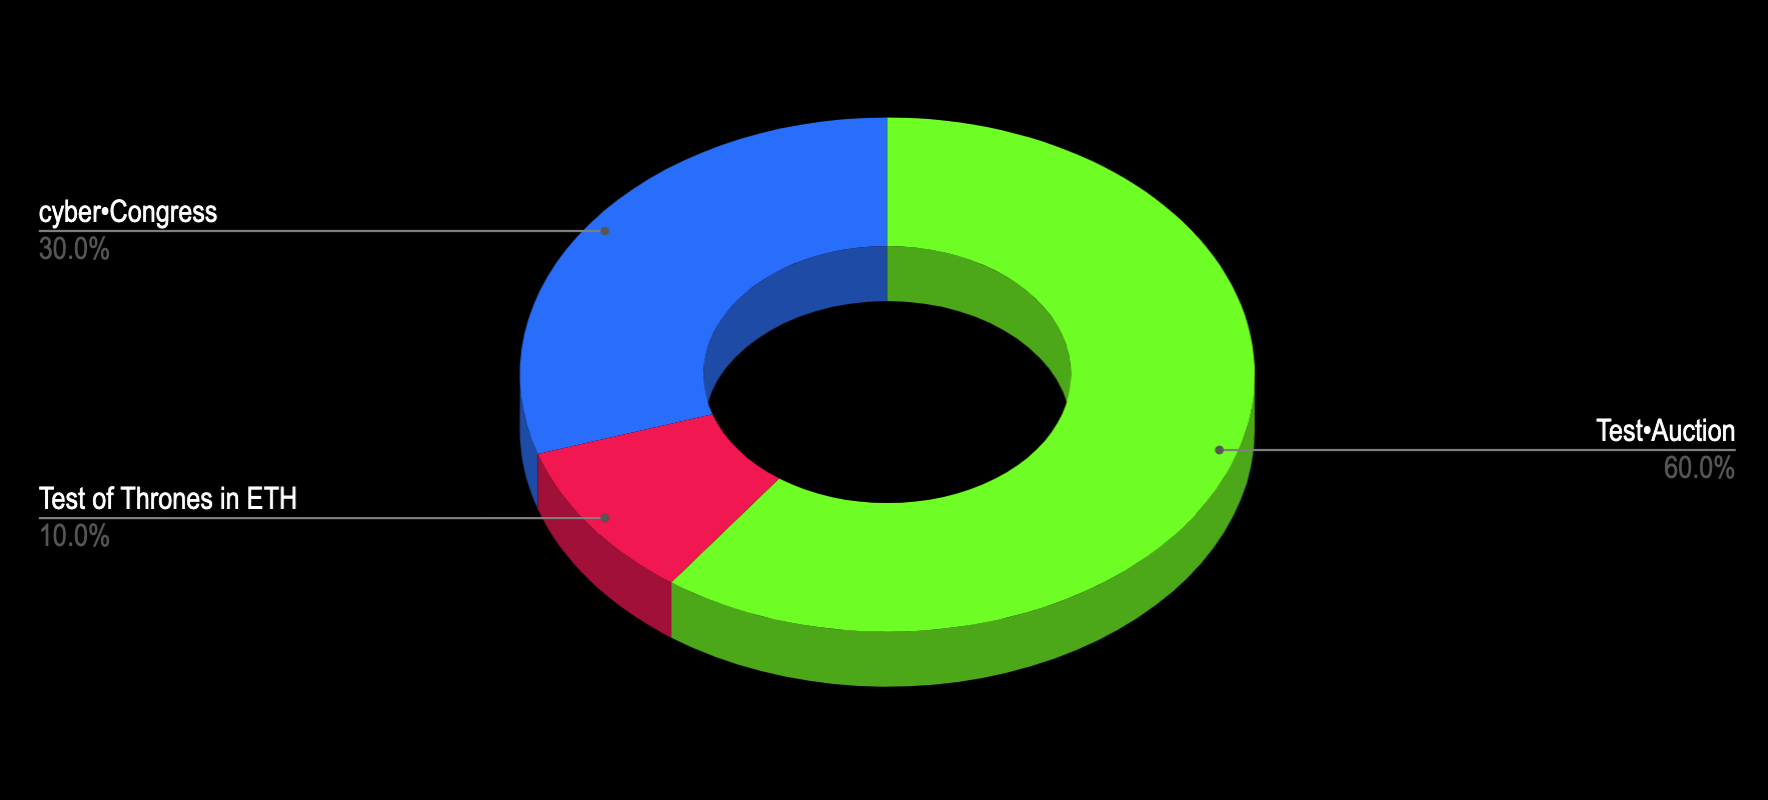
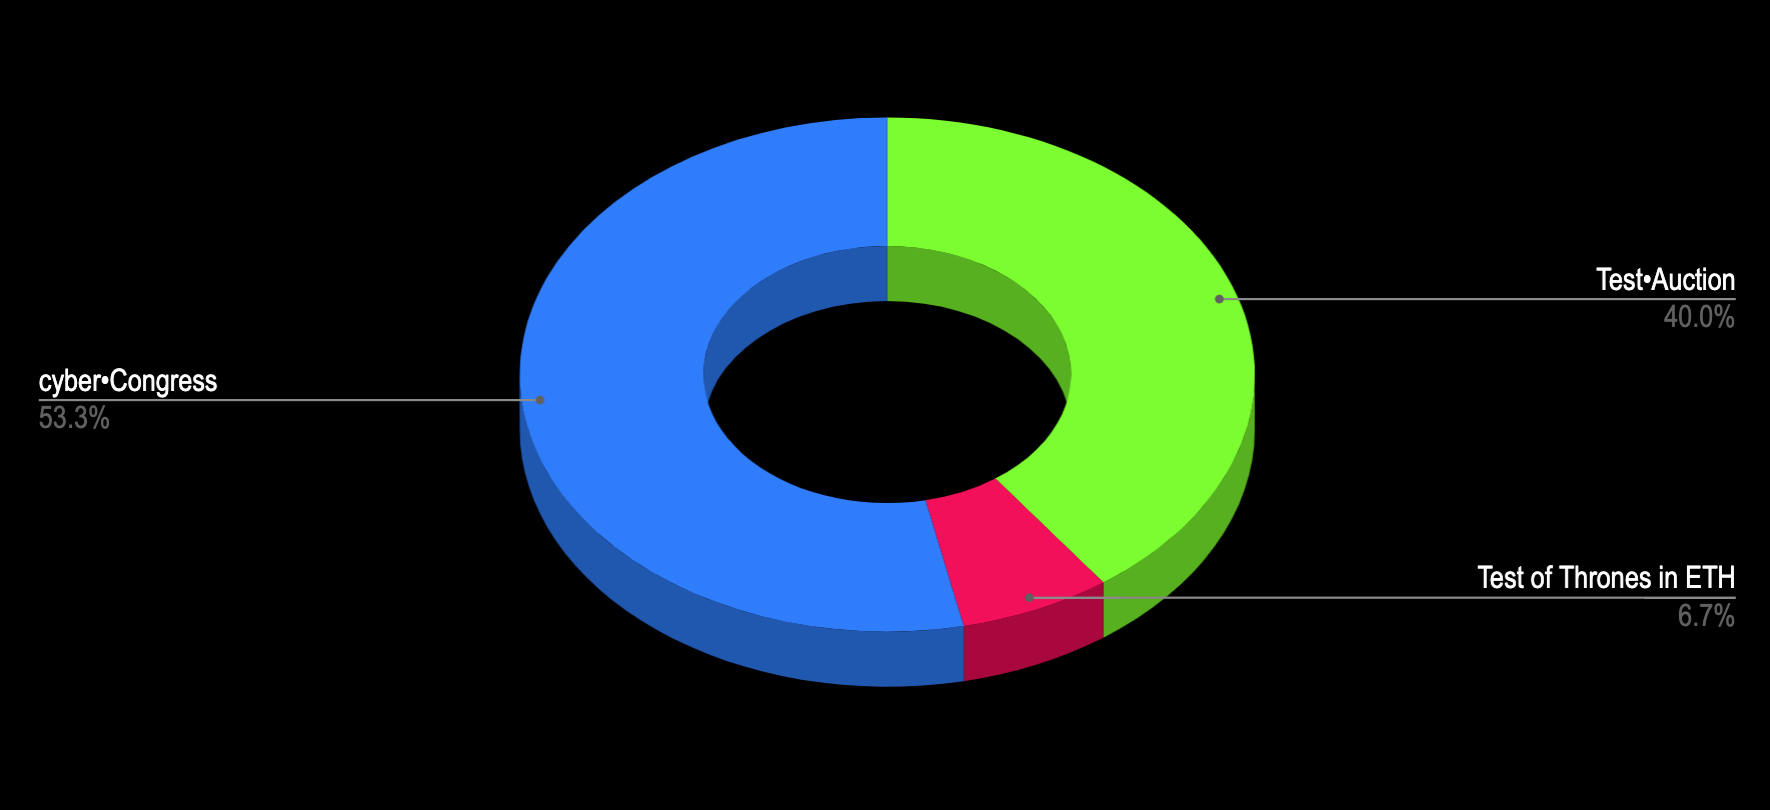
update e-4 distribution

diff --git a/blog/releases/gol-rules/game-of-links.tex.md b/blog/releases/gol-rules/game-of-links.tex.md
@@ -41,8 +41,8 @@ The distribution for `euler-5` in the Genesis file, will be the following:
 | --- | ---: |
 | Takeoff donations | 100,000,000,000,000 |
 | Gifts to Ethereum, Cosmos and Urbit communities | 100,000,000,000,000 |
-| Euler-4 validators | 20,000,000,000,000 |
-| GOL stakers | 10,000,000,000,000 |
+| Euler-4 validators | 15,000,000,000,000 |
+| GOL stakers | 15,000,000,000,000 |
 | Community pool | 2,000,000,000,000 |
 | Test of Thrones in ATOMs | 1,000,000,000,000 |
 
@@ -54,8 +54,8 @@ The distribution to those staking GOL tokens will be the following:
 
 | Group | Amount of EUL |
 | --- | ---: |
+| cyber\~Congress | 8,000,000,000,000 |
 | test\~Auction | 6,000,000,000,000 |
-| cyber\~Congress | 3,000,000,000,000 |
 | Test of Thrones in ETH | 1,000,000,000,000 |
 
 ## How to participate in the Game
@@ -63,20 +63,20 @@ The distribution to those staking GOL tokens will be the following:
 There is no face control, captchas or KYC to join the Game. All you need is a tool for playing and some tokens.
 
 You may join the Game as a:
-- Validator. [Set up]() your own node and start validating
+- Validator. [Set up](https://github.com/cybercongress/cyberd/blob/0.1.5/docs/run_validator.md) your own node and start validating
 - Great Web Agent. The builder of the Great Web. Migrate content from web2 to the Great Web or create your own and make it searchable. You can link your content with the help of a [browser extension](https://github.com/cybercongress/cyb-virus), a [web app](https://cyber.page/#/) or with the use of [CLI](https://github.com/cybercongress/cyberd)
 - Developer. Create cool things and claim your rewards via spend proposals from the community pool
 
 How to get the tokens and which tools to use?
 
 There are several ways to get tokens (and several tools that you can use):
-- **Gifts**. There are 100 TEULs allocated as a gift to the Cosmos, Ethereum and Urbtit communities. This is 43.3% of the `euler-5` Genesis supply. You can check your balance using `cyberdcli`, the [cyber.page]() app or via the [cyb-virus]() extension. Simply add your address to the cyber.page app to check your balance. Or, import your private key (for Ethereum) or seed phrase (for Cosmos) to the CLI or to the extension. You can also use your Ledger device with the [cyber.page](cyber.page) app and from the CLI.
+- **Gifts**. There are 100 TEULs allocated as a gift to the Cosmos, Ethereum and Urbtit communities. This is 42.9% of the `euler-5` Genesis supply. You can check your balance using `cyberdcli`, the [cyber.page]() app or via the [cyb-virus]() extension. Simply add your address to the cyber.page app to check your balance. Or, import your private key (for Ethereum) or seed phrase (for Cosmos) to the CLI or to the extension. You can also use your Ledger device with the [cyber.page](cyber.page) app and from the CLI.
 
 The gifting rules are defined in the [whitepaper](https://ipfs.io/ipfs/QmceNpj6HfS81PcCaQXrFMQf7LR5FTLkdG9sbSRNy3UXoZ). The gifting mechanism is implemented in the [launch kit](https://github.com/cybercongress/launch-kit) repo.
 
 - **Faucets**. We want to test the production of the auction app during `euler-5` and this is a great opportunity for creating a faucet based on this app. You can obtain GOL tokens and claim EUL tokens to participate in the game. We expect a low price valuation for GOL, so you can fill your stake with Szhabos() and uAtoms(1 millionth of an ATOM).
 
-- **Takeoff round**. You can get tokens if you will participate in the takeoff donations. There are 100 TEULs allocated for takeoff donation participants during `euler-5`. Those will be distributed at the end of the takeoff donation round and account for 43,3% of the Genesis supply. Therefore, their valuation should be much hotter in the end.
+- **Takeoff round**. You can get tokens if you will participate in the takeoff donations. There are 100 TEULs allocated for takeoff donation participants during `euler-5`. Those will be distributed at the end of the takeoff donation round and account for 42.9% of the Genesis supply. Therefore, their valuation should be much hotter in the end.
 
 - **Be a validator**. You can obtain tokens through inflation as a validator. The `euler-4` validators get 20 TEULs in `euler-5` for their support of the network.
 
@@ -181,7 +181,7 @@ $$a=\frac{reward_{CID}}{\sum\limits_{i=1}^{10}\frac{1}{i}}=\frac{reward_{CID}}{\
 
 Where $\gamma$ is Euler–Mascheroni constant =0.57721..., $\epsilon_{i}\sim\frac{1}{2i}$ .
 
-> Notice! Only retrievable CIDs take part in the Game. We assume Agents should also be content providers and responsible for content availability. Please make sure that your content is pinned and responding.
+> Notice! Only retrievable CIDs take part in the Game. We assume Agents should also be content providers and responsible for content availability. Please make sure that your content is pinned and responding. Otherwise, the unreachable CIDs will be excluded and rewards will be distributed between `1000 - N` CIDs, where N is the number of unreachable CIDs.
 
 ## The bandwidth load of every participant
 
